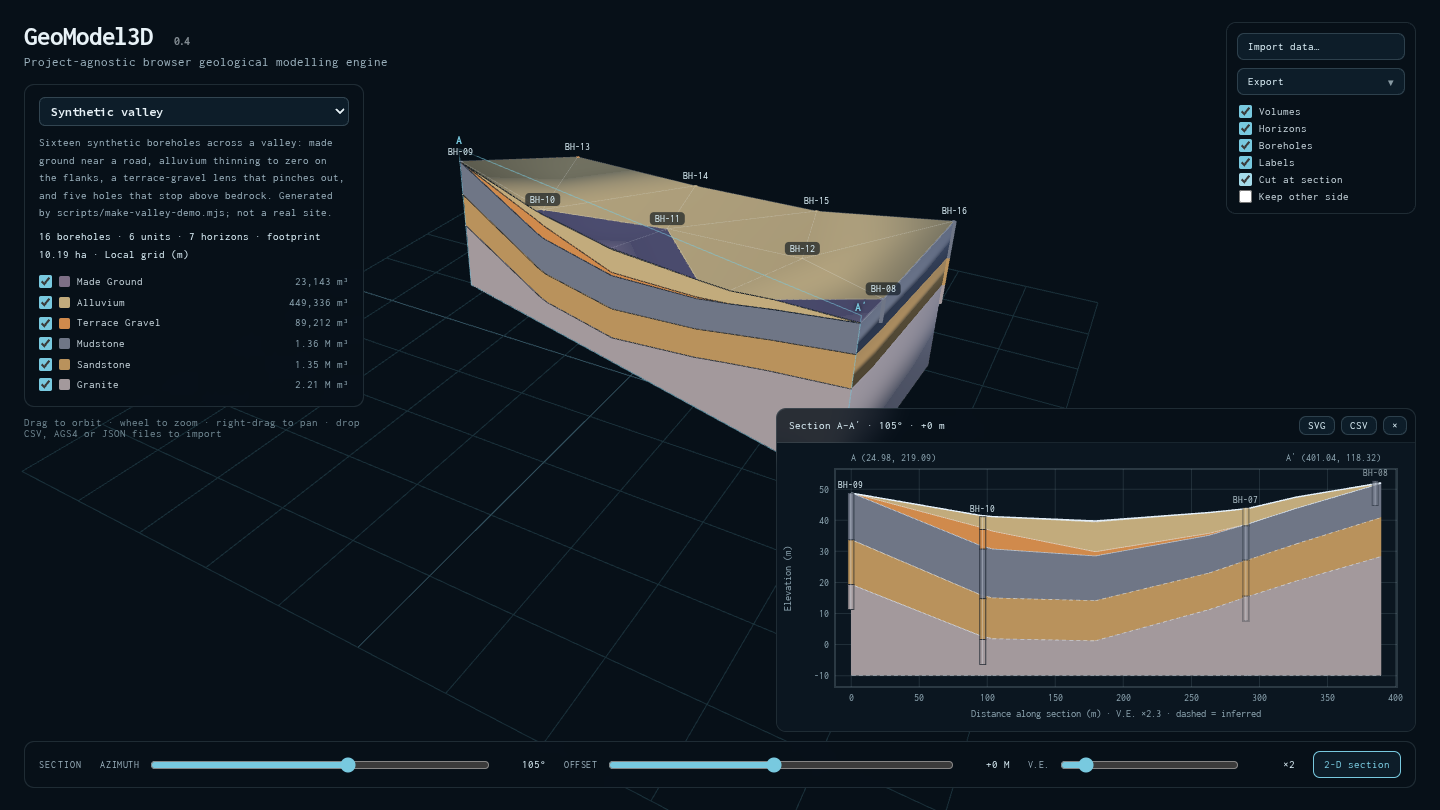
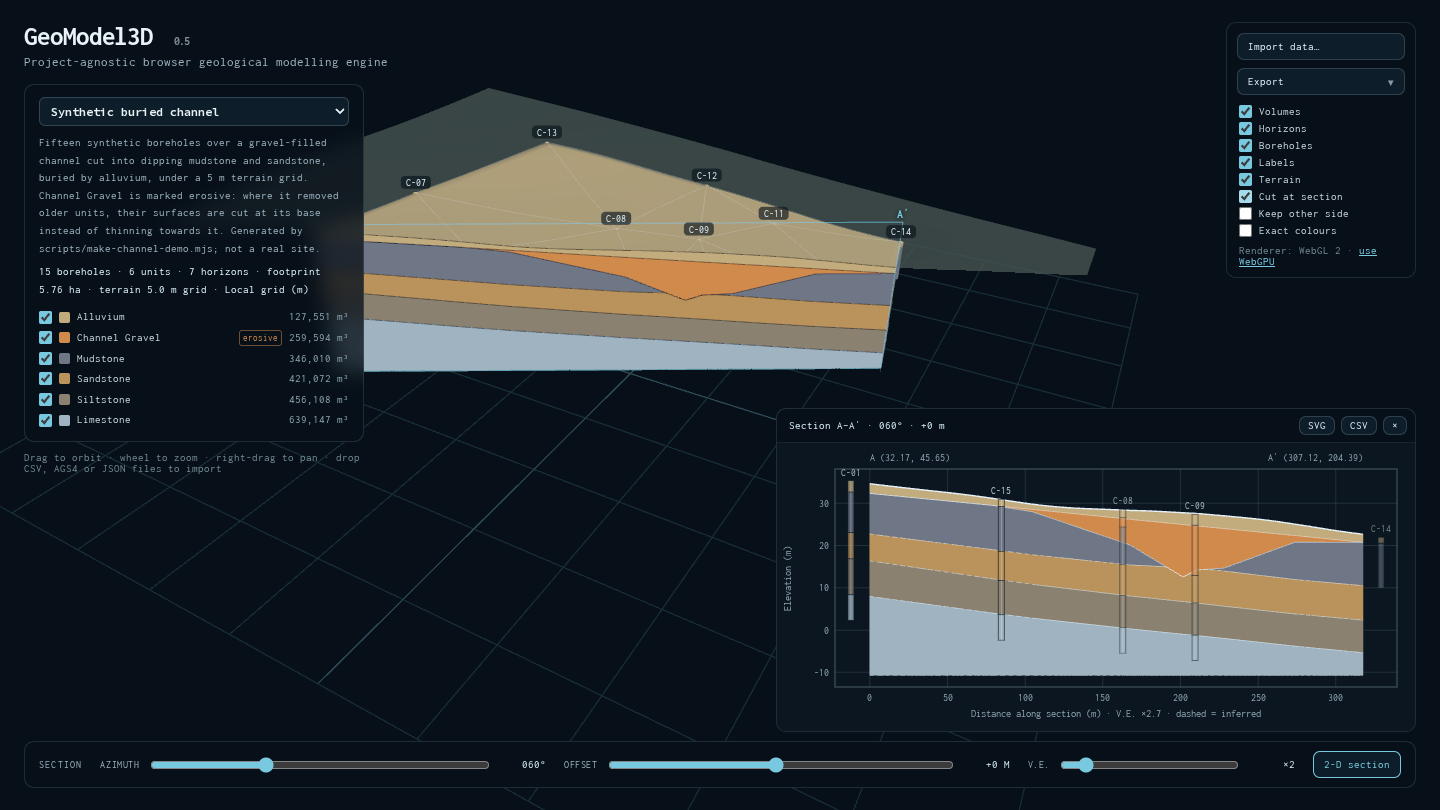
Document version 0.5
Describe terrain, erosional units and unit properties in the modelling
rules and import formats, with a project-file example that carries them;
add a Rendering section on the WebGPURenderer, the WebGL 2 default and
the ?backend=webgpu opt-in; update the roadmap, the changelog and the
screenshot (the buried-channel demo), and bump to 0.5.0.

diff --git a/README.md b/README.md
@@ -7,10 +7,16 @@ GeoModel3D builds layer-cake geological models from borehole logs in the browser
 - **Live:** https://kilickursat.github.io/GeoModel3D/
 - **Offline:** [geomodel3d-offline.html](https://kilickursat.github.io/GeoModel3D/geomodel3d-offline.html) is a single self-contained file that opens from disk, for networks where hosted pages or local servers are not an option.
 
-![Synthetic valley model cut at a section, with the 2-D section view](docs/screenshot.png)
+![Synthetic buried-channel model cut at a section, with the 2-D section view](docs/screenshot.png)
 
-## Version 0.4
+## Version 0.5
 
+- **Terrain.** Import a terrain grid (ESRI ASCII `.asc` or gridded `.xyz`). The ground follows it, corrected so every surveyed collar keeps its elevation, and the present topography cuts the units below it.
+- **Erosional units.** Mark a unit as erosive and its base cuts older units, as a buried channel does, instead of the older units thinning towards it.
+- **Unit properties.** Unit weight, saturated unit weight and the source of the values, imported, exported and shown with each unit.
+- **WebGPU-ready rendering.** The viewer runs on three.js's `WebGPURenderer` with TSL node materials; see [Rendering](#rendering).
+
+Since 0.4:
 - **Heterogeneous logs.** Units missing from a log pinch out. Holes that stop above deeper units are honoured without inventing contacts.
 - **Data-driven projects.** The stratigraphic column (order, names, colours) comes from the data.
 - **Import** CSV tables, AGS4, Georeport3D extraction JSON and GeoModel3D project JSON, by file picker or drag and drop. Every row that cannot be used is reported.
@@ -19,19 +25,21 @@ GeoModel3D builds layer-cake geological models from borehole logs in the browser
   - an optional cut-away of the model;
   - a 2-D section view, exportable as SVG or CSV.
 - **Unit volumes** in m³, vertical exaggeration, unit visibility, borehole labels and hover details.
-- **Two synthetic reference datasets.** They exercise the modelling kernel and are not real sites.
+- **Three synthetic reference datasets** (valley, buried channel, layer-cake). They exercise the modelling kernel and are not real sites; their unit weights are illustrative and labelled as such.
 
 ## How a model is built
 
 Boreholes → contacts → TIN horizons → closed unit volumes → sections
 
 1. **Stratigraphic column.** Units are ordered youngest (top) to oldest (bottom). A project can declare the order. Otherwise it is inferred from the logs: if unit A lies directly above unit B in any hole, A comes first. Logs that disagree are reported.
-2. **Reading a log.** Each borehole gives the elevation of every contact it shows. A unit missing between two logged units has zero thickness at that hole (pinch-out or erosion). A unit logged out of order below a younger one is modelled as the younger unit and reported. A contact inside an unlogged gap is placed at the middle of the gap and reported.
-3. **End of hole.** The base of the last unit a hole enters is not observed. Below it, horizons are inferred by stacking unit thicknesses, interpolated by inverse-distance weighting from holes that logged those units completely. The base of that last unit is kept below the end of the hole.
-4. **Model base.** The lowest unit closes at a flat base at the deepest end of hole, or at the project's `base` elevation if one is given.
-5. **Horizons.** All horizons share one Delaunay triangulation of the borehole collars. Thickness varies linearly between holes, and the model covers the convex hull of the boreholes without extrapolating beyond it.
-6. **Volumes.** Each unit is a closed, outward-facing shell between its top and base horizons. Its volume is exact for this piecewise-linear model: triangle area × mean vertex thickness.
-7. **Sections.** A vertical plane cuts every horizon along the same triangulation edges, so the unit polygons line up. Boreholes within a buffer are projected onto the section. A horizon segment is dashed unless it was logged at both ends.
+2. **Reading a log.** Each borehole gives the elevation of every contact it shows. A unit missing between two logged units has zero thickness at that hole (it pinches out). A unit logged out of order below a younger one is modelled as the younger unit and reported. A contact inside an unlogged gap is placed at the middle of the gap and reported.
+3. **Erosion.** If the unit directly above a contact is marked erosive, the units missing below it were eroded, not thinned. Their original surfaces at that hole are estimated from the holes that logged them, never below the erosion surface, and then cut by it.
+4. **End of hole.** The base of the last unit a hole enters is not observed. Below it, horizons are inferred by stacking unit thicknesses, interpolated by inverse-distance weighting from holes that logged those units completely. The base of that last unit is kept below the end of the hole.
+5. **Model base.** The lowest unit closes at a flat base at the deepest end of hole, or at the project's `base` elevation if one is given.
+6. **Horizons.** All horizons share one Delaunay triangulation of the borehole collars, and the model covers the convex hull of the boreholes without extrapolating beyond it. Between holes, horizons are linear. With terrain or erosive units, the triangulation is subdivided so the ground can follow the terrain grid and erosion surfaces can cut sharply.
+7. **Terrain.** The ground follows the terrain grid. The grid is corrected by the difference between each surveyed collar and the grid, interpolated between boreholes, so collars keep their surveyed elevations; collars more than 1 m off are reported. Every horizon is then kept at or below the ground, which removes units where the topography cuts below them.
+8. **Volumes.** Each unit is a closed, outward-facing shell between its top and base horizons. Its volume is exact for this piecewise-linear model: triangle area × mean vertex thickness.
+9. **Sections.** A vertical plane cuts every horizon along the same triangulation edges, so the unit polygons line up. Boreholes within a buffer are projected onto the section. A horizon segment is dashed unless it was logged at the boreholes around it.
 
 ## Importing data
 
@@ -40,7 +48,8 @@ Use **Import data…** or drop files on the page. Files are read in the browser 
 | Format | What is read |
 |---|---|
 | CSV, one table | One row per interval: hole id, x, y, z, from, to, unit, and optionally the final depth. |
-| CSV, several tables | Collars (hole id, x, y, z, optional depth) and intervals (hole id, from, to, unit), plus an optional units table (unit, name, colour) whose row order is the stratigraphic column. |
+| CSV, several tables | Collars (hole id, x, y, z, optional depth) and intervals (hole id, from, to, unit), plus an optional units table whose row order is the stratigraphic column: unit, name, colour, erosive (yes/no), unit weight, saturated unit weight (kN/m³) and source. |
+| Terrain grid (`.asc`, `.xyz`) | An ESRI ASCII grid, or `x y z` points on a regular grid. It attaches to boreholes imported with it, or to the project already loaded. Grids above one million cells are averaged down. |
 | AGS4 (`.ags`) | `LOCA`: `LOCA_NATE`/`LOCA_NATN`, with the local grid as a fallback, ground level `LOCA_GL` and final depth `LOCA_FDEP`. `GEOL`: `GEOL_TOP`/`GEOL_BASE`, with the unit from `GEOL_GEOL`, `GEOL_GEO2` or `GEOL_LEG`. Unit names come from `ABBR`. |
 | Georeport3D extraction JSON | `collar` easting/northing/elevation, `total_depth`, and `intervals` (`depth_from`, `depth_to`, `lithology`). A borehole without a complete collar is reported and not placed; coordinates are never invented. |
 | GeoModel3D project JSON | The format written by **Export → Project (JSON)**. |
@@ -64,15 +73,20 @@ A minimal project file:
   "name": "My site",
   "crs": "EPSG:6677",
   "units": [
-    {"id": "MG", "name": "Made ground", "color": "#7d6f86"},
-    {"id": "MS", "name": "Mudstone", "color": "#6f7686"}
+    {"id": "MG", "name": "Made ground", "color": "#7d6f86", "gamma": 19, "source": "Site investigation report, table 4"},
+    {"id": "CG", "name": "Channel gravel", "color": "#d08a4c", "erosive": true},
+    {"id": "MS", "name": "Mudstone", "color": "#6f7686", "gamma": 23, "gammaSat": 23.5}
   ],
   "boreholes": [
     {"id": "BH-01", "x": 456732.2, "y": 3987210.6, "z": 124.6, "depth": 35,
      "intervals": [{"from": 0, "to": 3.2, "unit": "MG"}, {"from": 3.2, "to": 30, "unit": "MS"}]}
-  ]
+  ],
+  "terrain": {"x0": 456725, "y0": 3987205, "dx": 5, "dy": 5, "ncols": 3, "nrows": 2,
+              "z": [124.1, 124.3, 124.8, 123.9, null, 124.5]}
 }
 ```
+
+Unit weights are in kN/m³ and optional; record where they come from in `source`. Terrain cells run west to east from the south-west cell centre (`x0`, `y0`); `null` marks a cell without data.
 
 **Export** writes:
 - **Project (JSON):** the format above.
@@ -80,19 +94,30 @@ A minimal project file:
 - **Section (SVG):** a vector drawing.
 - **Section (CSV):** distance, x, y and the elevation of every horizon along the section.
 
+## Rendering
+
+The viewer uses three.js's `WebGPURenderer` with TSL node materials, so one shader description serves both the WebGPU and the WebGL 2 backends.
+
+- **WebGL 2 is the default backend.** The WebGPU backend has not yet been checked on real hardware, so it is opt-in: add `?backend=webgpu` to the address, or use the link under the display options. The toolbar shows which backend is running, and falls back to WebGL 2 where WebGPU is unavailable.
+- **The cut-away is a shader mask**, so it behaves identically on both backends.
+- **Frames are drawn only when something changes**, so an idle model costs nothing. This matters on machines without a graphics card.
+- **Exact colours** shows units unlit in their legend colours, for reading colours rather than shapes.
+- **Terrain beyond the model** is drawn translucent, so it never hides the model.
+
 ## Architecture
 
 The modelling kernel has no rendering dependencies. It is tested in Node, and the viewer is a thin layer on top.
 
 - `src/geology.ts` — project schema and the synthetic reference datasets
 - `src/tin.ts` — Delaunay triangulation (Bowyer–Watson with a ghost vertex, so the convex hull is always covered)
-- `src/model.ts` — log interpretation and horizon assembly
+- `src/terrain.ts` — terrain grids: reading, interpolation and coarsening
+- `src/model.ts` — log interpretation, erosion, terrain and horizon assembly
 - `src/volume.ts` — closed unit-volume meshes
 - `src/section.ts` — vertical sections
 - `src/sectionSvg.ts` — 2-D section drawing and CSV export
 - `src/io.ts` — CSV, AGS4 and JSON import and export
 - `src/main.ts` — Three.js viewer and interface
-- `scripts/make-valley-demo.mjs` — generator for the synthetic valley dataset
+- `scripts/make-valley-demo.mjs`, `scripts/make-channel-demo.mjs` — generators for the synthetic datasets; the channel generator also writes the true geometry used in the tests
 - `scripts/build-single.mjs` — offline single-file build
 
 ## Development
@@ -111,20 +136,28 @@ Every push to `main` runs the tests, builds the site and publishes `dist/` to Gi
 
 ## Roadmap
 
-Done in 0.4: import adapters (CSV, AGS4, Georeport3D), missing units and pinch-outs, sections at any orientation with export.
+Done:
+- **0.4:** import adapters (CSV, AGS4, Georeport3D), missing units and pinch-outs, sections at any orientation with export.
+- **0.5:** terrain, erosional units, unit properties, WebGPU-ready rendering.
 
 Next:
 
-1. Reference models from real public site-investigation data (e.g. published AGS4 files)
-2. Unconformities, erosional surfaces and faults
-3. Constrained TIN boundaries, pinch-out lines and geological map contacts
-4. Generic numeric properties and uncertainty fields
-5. GeoJSON, DXF and LAS import
-6. Fence diagrams for boreholes along an alignment (tunnels, roads)
-7. Geological map draping
-8. Streaming and level of detail for large models
-9. WebGPU renderer path
-10. Provenance display for Georeport3D extractions
+1. **Appearance**, data-bearing only:
+   - standard lithology symbols in 3-D and in the SVG section;
+   - optional natural-looking rock textures;
+   - terrain contours and hillshade;
+   - fading where the model is inferred rather than logged.
+2. **Physics fields** from the unit properties:
+   - vertical stress, pore pressure and effective stress on volumes and sections;
+   - a groundwater surface from water-level records;
+   - horizontal stress only where K0 is given.
+3. WebGPU as the default backend once checked on real hardware.
+4. Reference models from real public site-investigation data (e.g. published AGS4 files).
+5. Faults; constrained TIN boundaries, pinch-out lines and geological map contacts.
+6. Fence diagrams for boreholes along an alignment (tunnels, roads).
+7. GeoJSON, DXF and LAS import; GeoTIFF terrain.
+8. Streaming and level of detail for large models.
+9. Provenance display for Georeport3D extractions.
 
 ## License
 

diff --git a/CHANGELOG.md b/CHANGELOG.md
@@ -1,5 +1,30 @@
 # Changelog
 
+## 0.5.0 — 2026-10-06
+
+### Added
+- **Terrain grids** (ESRI ASCII `.asc`, gridded `.xyz`), imported with boreholes or onto the loaded project.
+  - The ground follows the grid, corrected so that surveyed collars keep their elevations.
+  - Horizons are cut where the topography lies below them.
+  - Collars more than 1 m from the grid, and boreholes outside it, are reported.
+- **Erosional units.** Where an erosive unit removed older units from a log, those units are cut at its base instead of thinning towards it. On a synthetic buried channel with known geometry, this lowers the error of the truncated surfaces 2–5×.
+- **Subdivided triangulation** where terrain or erosion needs it. Without either, models are unchanged.
+- **Unit properties:** unit weight, saturated unit weight and their source, in unit tables and project JSON, with range checks.
+- **Viewer:**
+  - terrain beyond the model, drawn translucent and cut with it;
+  - an erosive tag in the legend;
+  - unit properties in the legend and on hover;
+  - an "Exact colours" mode;
+  - the active rendering backend shown in the toolbar.
+- **Synthetic buried-channel dataset**, with its true geometry as a test fixture. The valley dataset gains a 5 m terrain grid with an incised stream. Both carry illustrative unit weights labelled as not measured.
+
+### Changed
+- The viewer runs on three.js r186's `WebGPURenderer` with TSL node materials.
+  - WebGL 2 remains the default backend; WebGPU is opt-in with `?backend=webgpu` until it has been checked on real hardware.
+  - The cut-away is a shader mask, identical on both backends.
+- Frames are drawn only after something changes. On a software renderer, the idle loop went from 4 to 60 frames per second.
+- The offline single-file build grows from 547 kB to about 1.1 MB.
+
 ## 0.4.0 — 2026-10-06
 
 ### Added
